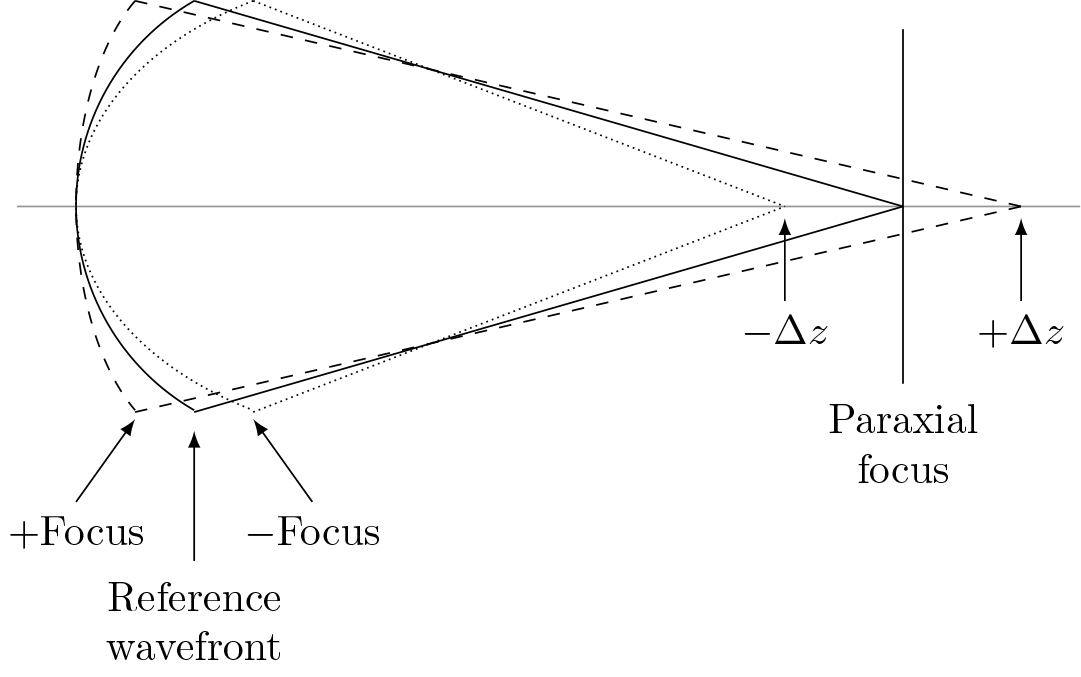
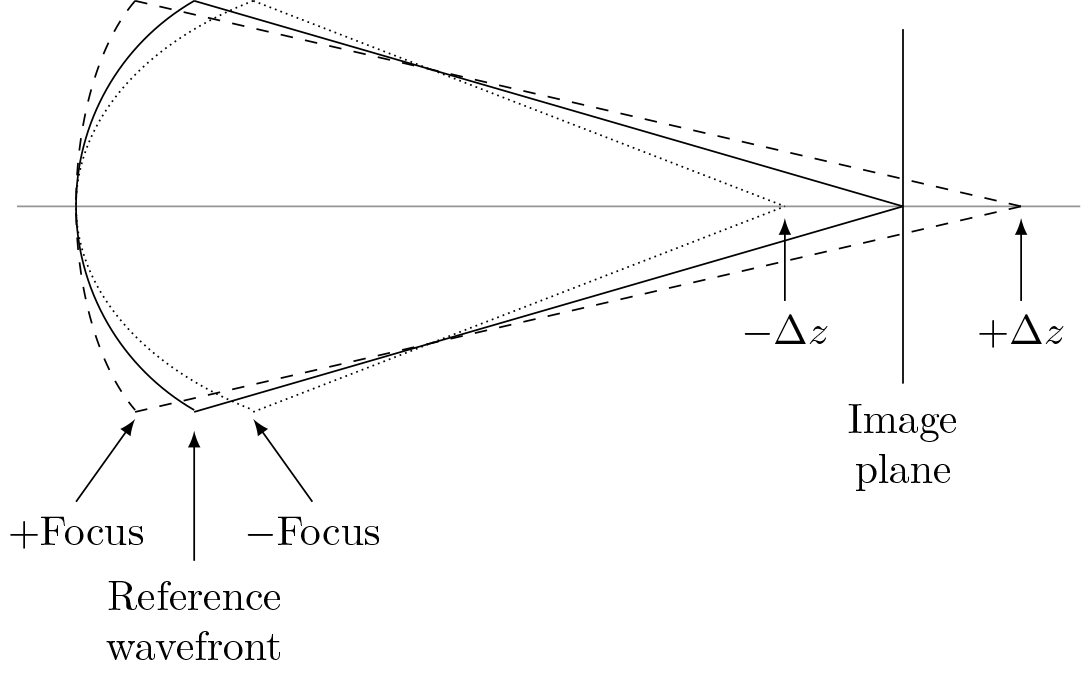
Updaate docs

diff --git a/docs/_img/python/focus_images.py b/docs/_img/python/focus_images.py
@@ -27,20 +27,34 @@ w_pos = lentil.Wavefront(650e-9)
 w_pos *= pupil_pos
 w_pos = w_pos.propagate_image(pixelscale=5e-6, npix=200, oversample=2)
 
-fig, axs = plt.subplots(1, 2)
+plt.subplot(1, 2, 1)
+plt.imshow(w_pos.intensity, origin='lower')
+plt.title('Image plane (+focus)')
+plt.xticks(np.linspace(0, 400, 5), labels=np.linspace(-1, 1, 5))
+plt.yticks(np.linspace(0, 400, 5), labels=np.linspace(-1, 1, 5))
+plt.xlabel('[m]')
 
-ax1 = axs[0]
-ax1.imshow(w_pos.intensity, origin='lower')
-ax1.set_title('Image plane (+focus)')
-ax1.set_xticks(np.linspace(0, 400, 5), labels=np.linspace(-1, 1, 5))
-ax1.set_yticks(np.linspace(0, 400, 5), labels=np.linspace(-1, 1, 5))
-ax1.set_xlabel('[mm]')
+plt.subplot(1, 2, 2)
+plt.imshow(w_neg.intensity, origin='lower')
+plt.title('Image plane (-focus)')
+plt.xticks(np.linspace(0, 400, 5), labels=np.linspace(-1, 1, 5))
+plt.yticks(np.linspace(0, 400, 5), labels=np.linspace(-1, 1, 5))
+plt.xlabel('[m]')
 
-ax2 = axs[1]
-ax2.imshow(w_neg.intensity, origin='lower')
-ax2.set_title('Image plane (-focus)')
-ax2.set_xticks(np.linspace(0, 400, 5), labels=np.linspace(-1, 1, 5))
-ax2.set_yticks(np.linspace(0, 400, 5), labels=np.linspace(-1, 1, 5))
-ax2.set_xlabel('[mm]')
+#fig, axs = plt.subplots(1, 2)
+#
+#ax1 = axs[0]
+#ax1.imshow(w_pos.intensity, origin='lower')
+#ax1.set_title('Image plane (+focus)')
+#ax1.set_xticks(np.linspace(0, 400, 5), labels=np.linspace(-1, 1, 5))
+#ax1.set_yticks(np.linspace(0, 400, 5), labels=np.linspace(-1, 1, 5))
+#ax1.set_xlabel('[mm]')
+#
+#ax2 = axs[1]
+#ax2.imshow(w_neg.intensity, origin='lower')
+##ax2.set_title('Image plane (-focus)')
+#ax2.set_xticks(np.linspace(0, 400, 5), labels=np.linspace(-1, 1, 5))
+#ax2.set_yticks(np.linspace(0, 400, 5), labels=np.linspace(-1, 1, 5))
+#ax2.set_xlabel('[mm]')
 
 plt.tight_layout()

diff --git a/docs/_img/tikz/focus_direction.tex b/docs/_img/tikz/focus_direction.tex
@@ -7,7 +7,7 @@
 \begin{tikzpicture}
 
     \draw [gray] (-1.5,0) -- (7.5,0);
-   
+
     \draw (0,1.74) arc [
         start angle=120,
         end angle=240,
@@ -19,22 +19,22 @@
 
     \draw [latex-] (0, -1.9) -- (0,-3);
     \node [below] at (0, -3) {\begin{tabular}{c}Reference\\wavefront\end{tabular}};
-    
+
         \draw (6, 1.5) -- (6,-1.5);
-    \node [below] at (6, -1.5) {\begin{tabular}{c}Paraxial\\focus\end{tabular}};
+    \node [below] at (6, -1.5) {\begin{tabular}{c}Image\\plane\end{tabular}};
 
     \draw [densely dotted] (0.5,1.74) arc [
         start angle=120,
         end angle=240,
         x radius=3,
         y radius=2];
-    
+
     \draw [densely dotted] (0.5,1.74) -- (5,0);
     \draw [densely dotted] (0.5,-1.74) -- (5,0);
-    
+
     \draw [latex-] (0.5,-1.8) -- (1,-2.5);
     \node [below] at (1,-2.5) {$-\mbox{Focus}$};
-    
+
     \draw [latex-] (5,-0.1) -- (5,-0.8);
     \node [below] at (5,-0.8) {$-\Delta z$};
 
@@ -43,15 +43,15 @@
         end angle=240,
         x radius=1,
         y radius=2];
-    
+
     \draw [dashed] (-0.5,1.74) -- (7,0);
     \draw [dashed] (-0.5,-1.74) -- (7,0);
 
     \draw [latex-] (-0.5,-1.8) -- (-1,-2.5);
     \node [below] at (-1,-2.5) {$+\mbox{Focus}$};
-    
+
     \draw [latex-] (7,-0.1) -- (7,-0.8);
     \node [below] at (7,-0.8) {$+\Delta z$};
-    
+
 \end{tikzpicture}
 \end{document}
